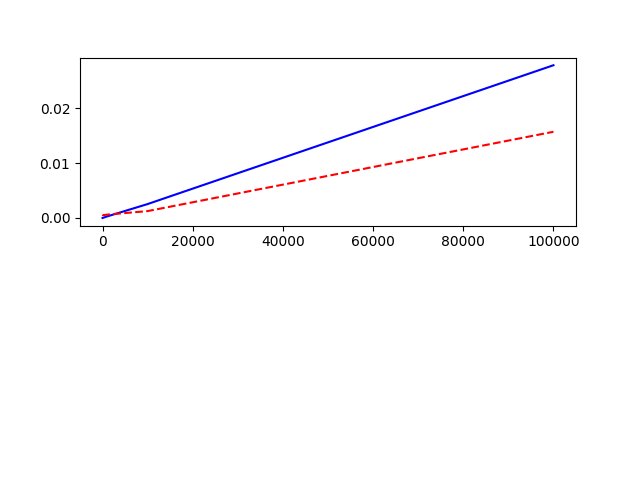
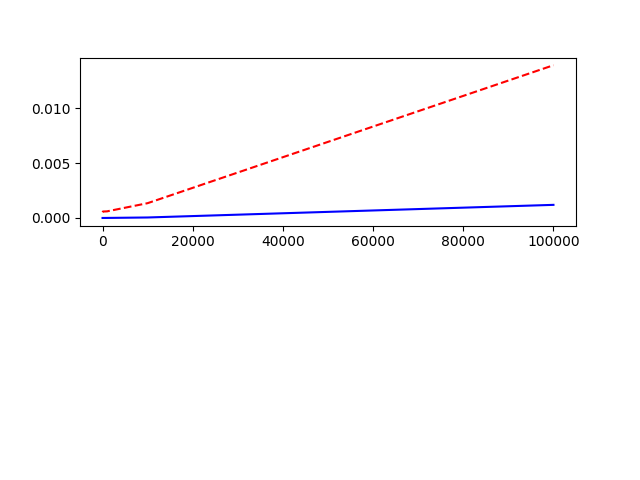
generalize and assert

diff --git a/compare_with_baseline.py b/compare_with_baseline.py
@@ -11,11 +11,17 @@ functions = [ ["sin(k)*cos(k)+pow(k,2)", ["k"] ] ]
 INPUT_FILENAME = "functions.c"
 DERIVATIVES_FILENAME = "derivatives"
 RUNNABLE_FILENAME = "runnable"
-OUTPUT_FILENAME = "output.txt"
+OUTPUT_FILENAME = "us_output.txt"
 PARAMS_FILENAME = "params.txt"
+ISPC_C_FILENAME = "ispc.c"
+PYTORCH_FILENAME = "pytorch.py"
+PYTORCH_OUTPUT = "pytorch_output.txt"
 OFFSET = "    "
-NUM_PARAMS = 10
-NUM_ITERATIONS = 10
+INIT_NUM_PARAMS = 10
+SCALE = 10
+MAX_NUM_PARAMS = 10
+NUM_ITERATIONS = 1
+NUM_THREADS_PYTORCH = 1
 
 
 def generate_function_c_file():
@@ -42,17 +48,19 @@ def generate_function_c_file():
 		f.write(output)
 	f.close()
 
-def generate_runnable_c_file():
+def generate_runnable_c_file(num_params):
 	vars = ",".join(str(x) for x in functions[0][1])
 	cmd = "python3 forward_diff.py " + INPUT_FILENAME + " 'p' --vars \"" + vars + "\" -func \"function_0\" --output_filename \"" + DERIVATIVES_FILENAME + "\""
 	os.system(cmd)
+	ispc_cmd = "ispc " + DERIVATIVES_FILENAME + ".ispc -h " + ISPC_C_FILENAME
 	der_f = open(DERIVATIVES_FILENAME + ".c", "r")
+	# der_f = open(ISPC_C_FILENAME, "r")
 	der_func = der_f.read()
 	der_f.close()
 	run_f = open(RUNNABLE_FILENAME + ".c", "w")
 	include = "#include <math.h>\n#include <stdlib.h>\n#include <time.h>\n#include <stdio.h>\n"
 	read_file_func = generate_read_file()
-	global_num_params = "#define N " + str(NUM_PARAMS) + "\n"
+	global_num_params = "#define N " + str(num_params) + "\n"
 	main = """\nint main(int argc, char *argv[]) {
 	double **args = malloc(N * sizeof(double *));
 	double **ders = malloc(N * sizeof(double *));
@@ -103,66 +111,100 @@ def generate_read_file():
     }
 }"""
 
-def generate_params():
+def generate_params(num_params):
 	all_params = []
 	for func in functions:
-		func_params = np.random.rand(NUM_PARAMS, len(func[1])) * 10
+		func_params = np.random.rand(num_params, len(func[1])) * 10
 		all_params.append(func_params)
 	return all_params
 
+def parse_pytorch(func):
+    finalEq = ""
+    lastIndex = 0
+    stripped = func.strip()
+    for i in range(len(stripped)):
+        if stripped[i] == "*" or stripped[i] == "/" or stripped[i] == "+" or stripped[i] == "-":
+            substring = stripped[lastIndex:i]
+            torched = "torch." + substring + stripped[i]
+            lastIndex = i + 1
+            finalEq += torched
+    substring = stripped[lastIndex:]
+    torched = "torch." + substring
+    finalEq += torched
+    return finalEq
 
-def run_pytorch(params):
-	torch.set_num_threads(1)
-	x = torch.tensor(params[0], requires_grad=True)
-	y = torch.sin(x)*torch.cos(x)+torch.pow(x,2)
-	print("Y is: " + str(type(y)))
-	print(torch.get_num_threads())
-	start_time_pytorch = timer()
-	y.backward(torch.ones_like(x))
-	x.grad
-	end_time_pytorch = timer()
-	runtime = end_time_pytorch - start_time_pytorch
-	return [x.grad, runtime]
+def generate_pytorch_file(func_num, params):
+	pytorch_f = open(PYTORCH_FILENAME, "w+")
+	importString = "import torch\nimport time\n"
+	var = functions[func_num][1][0]
+	threads = "torch.set_num_threads(" + str(NUM_THREADS_PYTORCH) + ")\n"
+	varString = var + " = torch.tensor(" + str(convert_params_to_list(params)) + ", requires_grad=True)\n"
+	print(varString)
+	eqString = "y = " + parse_pytorch(functions[func_num][0]) + "\n"
+	main = "start_time_pytorch = time.time()\ny.backward(torch.ones_like(" + var + "))\n" + var + ".grad\n"
+	main += "end_time_pytorch = time.time()\nruntime = end_time_pytorch - start_time_pytorch\n"
+	main += "print( str(runtime) + \" \" + \" \".join(str(x) for x in " + var + ".grad.tolist()))\n"
+	output = importString + varString + threads + eqString + main
+	pytorch_f.write(output)
+	pytorch_f.close()
 
-def run_ours(params):
-	print_param_to_file(params)
-	os.system("gcc " + RUNNABLE_FILENAME + ".c -O3 -o " + RUNNABLE_FILENAME + " -lm")
-	run_command = "./" + RUNNABLE_FILENAME  + " " + PARAMS_FILENAME
-	result = run(run_command, stdout=PIPE, stderr=PIPE, universal_newlines=True, shell=True)
-	f = open(OUTPUT_FILENAME, "r")
+def run_pytorch():
+	cmd = "python3 " + PYTORCH_FILENAME + " > " + PYTORCH_OUTPUT
+	os.system(cmd)
+	return(parse_output(PYTORCH_OUTPUT))
+
+def parse_output(filename):
+	f = open(filename, "r")
 	output = f.read()
 	output_array = output.split()
 	runtime = output_array[0]
 	values = output_array[1:]
 	return [values, runtime]
 
+def run_ours(params):
+	print_param_to_file(params)
+	os.system("gcc " + RUNNABLE_FILENAME + ".c -O3 -o " + RUNNABLE_FILENAME + " -lm")
+	run_command = "./" + RUNNABLE_FILENAME  + " " + PARAMS_FILENAME
+	result = run(run_command, stdout=PIPE, stderr=PIPE, universal_newlines=True, shell=True)
+	return(parse_output(OUTPUT_FILENAME))
+
 def print_param_to_file(params):
-	param_string = "\n".join(str(x[0]) for x in params[0])
+	param_string = "\n".join(str(x[0]) for x in params)
 	param_f = open(PARAMS_FILENAME, "w+")
 	param_f.write(param_string)
+	param_f.close()
+
+def convert_params_to_list(params):
+	current_params = []
+	for param in params:
+		current_params.append(param[0])
+	print(current_params)
+	return current_params
 
 if __name__ == "__main__":
-	# params = generate_params()
 	avg_us = []
 	avg_pytorch = []
 	denom = []
-	# run_pytorch(params)
-	while NUM_PARAMS < 1000000:
+	num_params = INIT_NUM_PARAMS
+	while num_params <= MAX_NUM_PARAMS:
 		generate_function_c_file()
-		generate_runnable_c_file()
+		generate_runnable_c_file(num_params)
 		our_times = []
 		py_times = []
 		for i in range(NUM_ITERATIONS):
-			params = generate_params()
-			pytorch = run_pytorch(params)
-			ours = run_ours(params)
+			params = generate_params(num_params)
+			generate_pytorch_file(0, params[0])
+			pytorch = run_pytorch()
+			ours = run_ours(params[0])
+			round_ours = " ".join(format(float(x), '.4f') for x in ours[0])
+			round_py = " ".join(format(float(x), '.4f') for x in pytorch[0])
+			assert(round_ours == round_py, "Values did not match!")
 			our_times.append(float(ours[1]))
 			py_times.append(float(pytorch[1]))
 		avg_us.append(sum(our_times) / len(our_times))
 		avg_pytorch.append(sum(py_times) / len(py_times))
-		denom.append(NUM_PARAMS) 
-		NUM_PARAMS = NUM_PARAMS * 10
-	print(our_times)
+		denom.append(num_params) 
+		num_params = num_params * SCALE
 	plt.figure(1)
 	plt.subplot(211)
 	plt.plot(denom, avg_us, 'b')

diff --git a/runnable.c b/runnable.c
@@ -2,7 +2,7 @@
 #include <stdlib.h>
 #include <time.h>
 #include <stdio.h>
-#define N 100000
+#define N 10
 void compute(double **values, long num_points, double **ders){
 
 	for(int i = 0; i < num_points; ++i)
@@ -44,7 +44,7 @@ int main(int argc, char *argv[]) {
 	double delta = ((double)tend.tv_sec + 1.0e-9*tend.tv_nsec) - ((double)tstart.tv_sec + 1.0e-9*tstart.tv_nsec);
 	FILE *fp;
 
-	fp = fopen("output.txt", "w+");
+	fp = fopen("us_output.txt", "w+");
 
     fprintf(fp, "%f ", delta);
 	for(int i = 0; i < N; i++) {

diff --git a/c_generator.py b/c_generator.py
@@ -37,7 +37,6 @@ class CGenerator(object):
 			ext = '.ispc'
 			f = open(self.filename+ext,'w')
 			f.write("export void compute(double **values, long num_points, double **ders){\n\n")
-			f.write("\tuniform long num_points = ((int) (sizeof (values) / sizeof (values)[0]));\n\n")
 			f.write("\tforeach (index = 0 ... num_points)\n\t{\n") # iterate over 
 			f.close()
 
